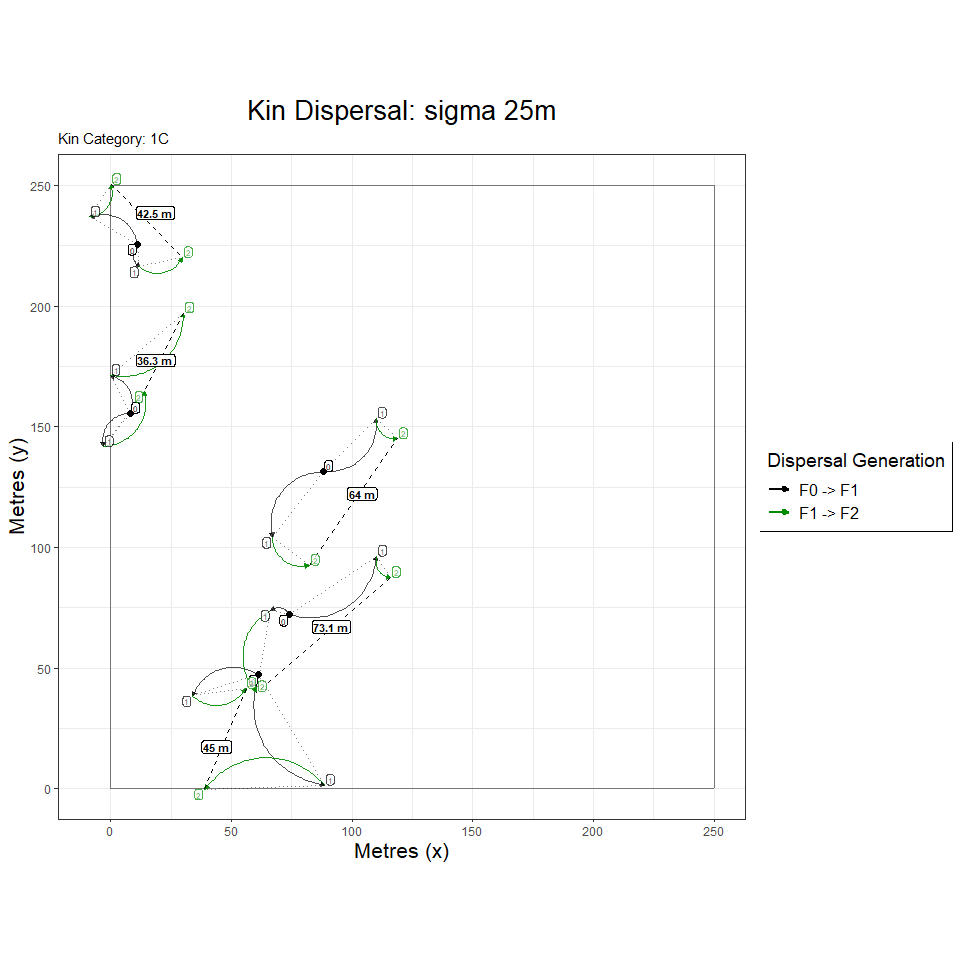
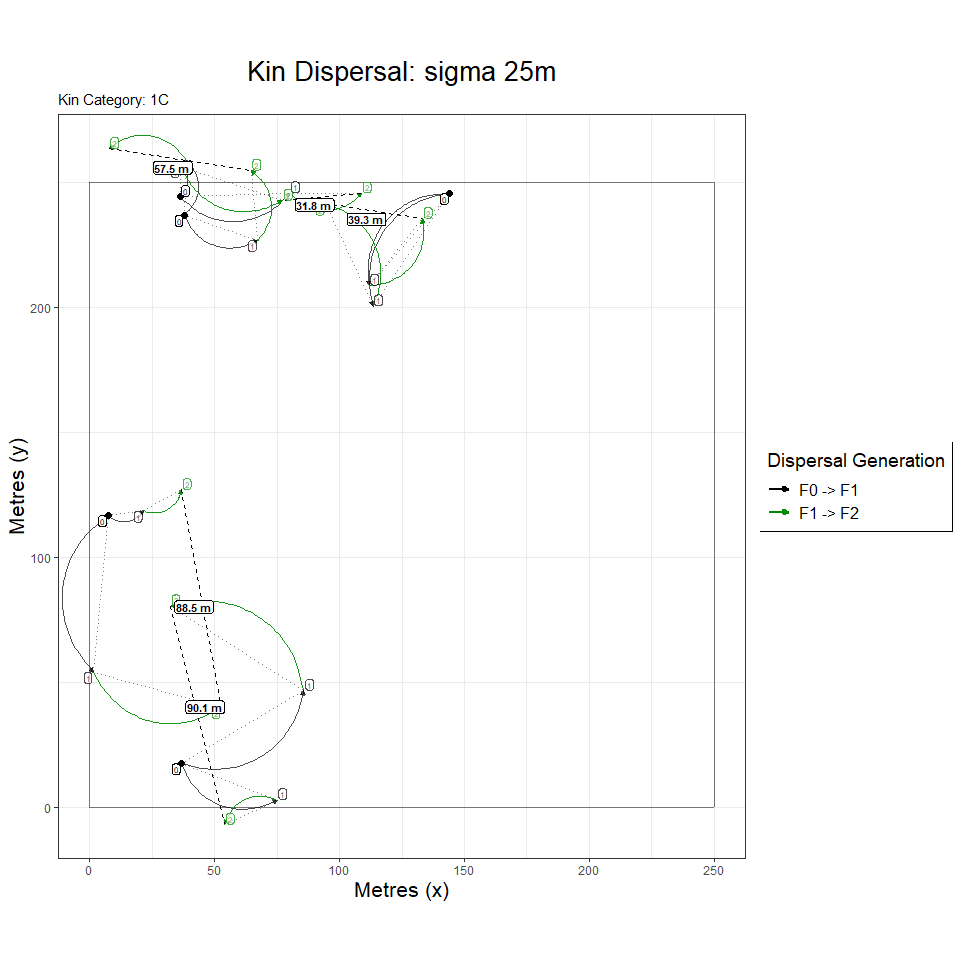
format tweaks

diff --git a/README.md b/README.md
@@ -296,13 +296,13 @@ simulate_kindist_simple(nsims = 5, sigma = 100, method = "Gaussian", kinship = "
 #> 
 #> tab
 #> # A tibble: 5 x 8
-#>   id1   id2   kinship distance    x1     y1    x2    y2
-#>   <chr> <chr> <chr>      <dbl> <dbl>  <dbl> <dbl> <dbl>
-#> 1 1a    1b    PO          40.7 59.7   9.37   31.3  38.6
-#> 2 2a    2b    PO         227.  34.6   0.493 210.  144. 
-#> 3 3a    3b    PO          90.5  7.66 25.7   -26.5 110. 
-#> 4 4a    4b    PO          98.3 20.8  17.1   106.  -31.7
-#> 5 5a    5b    PO          22.6 40.5  42.5    47.3  21.0
+#>   id1   id2   kinship distance    x1    y1     x2    y2
+#>   <chr> <chr> <chr>      <dbl> <dbl> <dbl>  <dbl> <dbl>
+#> 1 1a    1b    PO          86.1  1.09  2.07  85.1   21.1
+#> 2 2a    2b    PO          61.9 64.1  99.9    3.14 111. 
+#> 3 3a    3b    PO          96.0 83.4  68.2  175.    97.6
+#> 4 4a    4b    PO         134.  46.9  25.5  172.   -23.3
+#> 5 5a    5b    PO          90.7 14.8  58.5  101.    87.5
 #> -----------------------------------
 ```
 
@@ -348,13 +348,13 @@ simulate_kindist_composite(nsims = 5, initsigma = 50, breedsigma = 30, gravsigma
 #> 
 #> tab
 #> # A tibble: 5 x 8
-#>   id1   id2   kinship distance    x1     y1     x2     y2
-#>   <chr> <chr> <chr>      <dbl> <dbl>  <dbl>  <dbl>  <dbl>
-#> 1 1a    1b    H1C         185.  45.8   25.5   65.6  209. 
-#> 2 2a    2b    H1C         408. -21.5  104.   302.  -144. 
-#> 3 3a    3b    H1C         143.  30.3 -180.    92.3  -51.5
-#> 4 4a    4b    H1C         117. -51.2   39.6 -113.   -60.2
-#> 5 5a    5b    H1C         281. 154.   -77.2  181.   203. 
+#>   id1   id2   kinship distance     x1     y1    x2     y2
+#>   <chr> <chr> <chr>      <dbl>  <dbl>  <dbl> <dbl>  <dbl>
+#> 1 1a    1b    H1C         206.  105.   165.  -99.6  188. 
+#> 2 2a    2b    H1C         452.  -41.9 -106.  229.   255. 
+#> 3 3a    3b    H1C         477. -110.   136.  152.  -262. 
+#> 4 4a    4b    H1C         121.   36.8  218.  -57.2  141. 
+#> 5 5a    5b    H1C         179. -132.    82.8  46.9   76.9
 #> -----------------------------------
 ```
 
@@ -403,13 +403,13 @@ simulate_kindist_custom(nsims = 5, model = dmodel, kinship = "PO")
 #> 
 #> tab
 #> # A tibble: 5 x 8
-#>   id1   id2   kinship distance    x1    y1     x2    y2
-#>   <chr> <chr> <chr>      <dbl> <dbl> <dbl>  <dbl> <dbl>
-#> 1 1a    1b    PO          41.4 34.9   47.4  -5.63  56.3
-#> 2 2a    2b    PO          22.0  9.97  99.3  30.8  106. 
-#> 3 3a    3b    PO         166.  68.0   55.4 232.    82.0
-#> 4 4a    4b    PO          37.3 92.3   18.8  88.4  -18.2
-#> 5 5a    5b    PO          61.5 19.5   82.0 -26.9  122. 
+#>   id1   id2   kinship distance    x1    y1    x2     y2
+#>   <chr> <chr> <chr>      <dbl> <dbl> <dbl> <dbl>  <dbl>
+#> 1 1a    1b    PO          47.9  74.9  88.1  31.5 108.  
+#> 2 2a    2b    PO         107.   45.9  39.6 146.    2.18
+#> 3 3a    3b    PO         164.   88.1  40.8 223.  134.  
+#> 4 4a    4b    PO         218.   81.7  50.2  66.5 268.  
+#> 5 5a    5b    PO          64.1  89.0  46.8 150.   65.3 
 #> -----------------------------------
 ```
 
@@ -451,18 +451,18 @@ sample_kindist(compsim, upper = 1000, lower = 200, spacing = 50, n = 25)
 #> 
 #> tab
 #> # A tibble: 25 x 8
-#>    id1    id2    kinship distance      x1     y1     x2     y2
-#>    <chr>  <chr>  <chr>      <dbl>   <dbl>  <dbl>  <dbl>  <dbl>
-#>  1 63692a 63692b H2C          475 -215.    236.   218.   387. 
-#>  2 33721a 33721b H2C          725  333.   -444.   315.   281. 
-#>  3 48528a 48528b H2C          425  510.    -56.2  166.   151. 
-#>  4 98372a 98372b H2C          375  -48.0  -226.   118.    94.4
-#>  5 49961a 49961b H2C          225  -48.4   287.  -257.   210. 
-#>  6 4577a  4577b  H2C          375 -164.   -229.    57.2   68.1
-#>  7 46586a 46586b H2C          525  -40.8  -158.   120.   355. 
-#>  8 66461a 66461b H2C          275  229.    256.   435.    44.6
-#>  9 28980a 28980b H2C          375  -22.3   216.   -39.8 -160. 
-#> 10 69366a 69366b H2C          375    2.15  308.   377.   267. 
+#>    id1    id2    kinship distance      x1      y1      x2       y2
+#>    <chr>  <chr>  <chr>      <dbl>   <dbl>   <dbl>   <dbl>    <dbl>
+#>  1 5988a  5988b  H2C          375  167.     93.4  -178.    211.   
+#>  2 21680a 21680b H2C          375   69.7   345.     98.8   -25.9  
+#>  3 90481a 90481b H2C          575 -275.    -10.2   177.    338.   
+#>  4 98513a 98513b H2C          375    6.31  379.     84.4    -0.246
+#>  5 57969a 57969b H2C          375 -332.      1.47  -21.1  -209.   
+#>  6 69384a 69384b H2C          325 -104.   -133.    191.    -41.3  
+#>  7 90055a 90055b H2C          525   53.3   117.   -368.    413.   
+#>  8 69670a 69670b H2C          275  -71.8   549.    210.    488.   
+#>  9 56281a 56281b H2C          525  545.   -128.      5.64  -69.8  
+#> 10 29818a 29818b H2C          325 -125.    -12.3  -180.    316.   
 #> # ... with 15 more rows
 #> -----------------------------------
 ```
@@ -558,13 +558,13 @@ of three draws from the PO distribution, and thus would take
 ``` r
 paroff <- simulate_kindist_simple(nsims = 1000, sigma = 75, kinship = "PO")
 axials(paroff)
-#> [1] 74.97167
+#> [1] 77.42262
 ```
 
 ``` r
 fullsibs <- simulate_kindist_composite(nsims = 10000, ovisigma = 25, kinship = "FS")
 axials(fullsibs, composite = 2)
-#> [1] 24.95087
+#> [1] 25.05323
 ```
 
 Various auxillary functions exist to further manipulate axial distances
@@ -647,8 +647,8 @@ fullcous <- simulate_kindist_composite(nsims = 75, initsigma = init, breedsigma 
 # calculate PO axial sigma C.I. 
 
 axpermute_standard(fullcous, fullsibs)
-#>     2.5%     mean    97.5% 
-#> 76.86744 86.63217 97.08255
+#>      2.5%      mean     97.5% 
+#>  86.03582  97.50953 109.82907
 ```
 
 As we can see, the C.I. neatly brackets the actual axial value, though
@@ -678,18 +678,18 @@ cousins
 #> 
 #> tab
 #> # A tibble: 150 x 9
-#>    id1   id2   kinship distance     x1     y1      x2     y2 lifestage
-#>    <chr> <chr> <chr>      <dbl>  <dbl>  <dbl>   <dbl>  <dbl> <chr>    
-#>  1 1a    1b    UN         240.   242.   -44.9  113.    157.  immature 
-#>  2 2a    2b    UN         127.   167.    52.9  124.    172.  immature 
-#>  3 3a    3b    UN         141.    10.6   77.5   39.2   215.  immature 
-#>  4 4a    4b    UN         153.    17.3 -103.   166.    -65.6 immature 
-#>  5 5a    5b    UN         114.    43.1   41.8  -64.3    80.2 immature 
-#>  6 6a    6b    UN         307.   182.   203.   -77.2    37.3 immature 
-#>  7 7a    7b    UN         198.   105.    29.3    9.40 -144.  immature 
-#>  8 8a    8b    UN         161.    80.5  -87.9   69.6    73.1 immature 
-#>  9 9a    9b    UN         233.  -102.   118.  -309.    226.  immature 
-#> 10 10a   10b   UN          81.6   69.0  173.   -12.2   182.  immature 
+#>    id1   id2   kinship distance      x1     y1      x2      y2 lifestage
+#>    <chr> <chr> <chr>      <dbl>   <dbl>  <dbl>   <dbl>   <dbl> <chr>    
+#>  1 1a    1b    UN         267.   129.    64.2    -5.28 -167.   immature 
+#>  2 2a    2b    UN         245.  -199.    -7.09   45.9    -2.45 immature 
+#>  3 3a    3b    UN         124.     6.13 113.    123.     71.6  immature 
+#>  4 4a    4b    UN          78.0    2.12  46.1   -14.9   -30.0  immature 
+#>  5 5a    5b    UN         155.    65.1  206.    158.     82.0  immature 
+#>  6 6a    6b    UN          93.6  -96.5   23.3  -150.    100.   immature 
+#>  7 7a    7b    UN         209.   -63.0  227.    -29.4    20.4  immature 
+#>  8 8a    8b    UN         119.    87.9  -86.0   198.   -132.   immature 
+#>  9 9a    9b    UN         465.   361.   166.    -84.0    32.2  immature 
+#> 10 10a   10b   UN          76.8   84.2  -67.7    63.3     6.20 immature 
 #> # ... with 140 more rows
 #> -------------------------------
 ```
@@ -704,8 +704,8 @@ missing category data:
 # bcomp allows supply of distribution to composite with bvect (this is done to match 
 # the cousin mixture in phase)
 axpermute_standard(avect = cousins, acat = "1C", amix = TRUE, amixcat = "H1C", bvect = fullsibs, bcomp = TRUE, bcompvect = halfsibs)
-#>      2.5%      mean     97.5% 
-#>  78.98689  90.72218 100.45978
+#>     2.5%     mean    97.5% 
+#> 75.82622 86.19653 96.91583
 ```
 
 This estimate is a lot more convoluted, and not as ‘spot on’- but the
@@ -877,18 +877,18 @@ ant_po
 #> 
 #> tab
 #> # A tibble: 10,000 x 8
-#>    id1   id2   kinship distance    x1    y1      x2    y2
-#>    <chr> <chr> <chr>      <dbl> <dbl> <dbl>   <dbl> <dbl>
-#>  1 1a    1b    PO          14.1 79.4  32.5    66.0   28.4
-#>  2 2a    2b    PO         242.   3.88 43.9   222.   149. 
-#>  3 3a    3b    PO          99.9  6.63 78.8   104.    99.2
-#>  4 4a    4b    PO         208.   7.28 79.7  -159.   205. 
-#>  5 5a    5b    PO         206.  97.1  51.5  -108.    65.0
-#>  6 6a    6b    PO         251.  34.7  57.7  -216.    78.5
-#>  7 7a    7b    PO          97.7 31.9  34.8    -6.34 -55.1
-#>  8 8a    8b    PO         125.  45.4  50.9   -49.2  133. 
-#>  9 9a    9b    PO          75.6 84.1   7.83  149.   -31.2
-#> 10 10a   10b   PO          50.1 38.9  79.5    32.2   29.9
+#>    id1   id2   kinship distance    x1    y1     x2     y2
+#>    <chr> <chr> <chr>      <dbl> <dbl> <dbl>  <dbl>  <dbl>
+#>  1 1a    1b    PO        130.   96.8  90.7    67.2 217.  
+#>  2 2a    2b    PO        123.    9.48 52.4   131.   73.0 
+#>  3 3a    3b    PO         76.4  99.9  98.1    24.1 108.  
+#>  4 4a    4b    PO        106.   88.9  63.2   -13.3  92.1 
+#>  5 5a    5b    PO        137.    8.41 14.4    38.6 148.  
+#>  6 6a    6b    PO         47.9  86.2  33.4   134.   27.6 
+#>  7 7a    7b    PO        196.   89.1  33.1  -107.   34.0 
+#>  8 8a    8b    PO        264.   74.4  83.3   158.  334.  
+#>  9 9a    9b    PO         62.3  41.6  79.8    64.0 138.  
+#> 10 10a   10b   PO          5.07 45.5   3.84   42.0   7.45
 #> # ... with 9,990 more rows
 #> -----------------------------------
 ```
@@ -896,7 +896,7 @@ ant_po
 Now we’ll use the `axials()` function to characterise our ‘default’
 dispersal for the model:
 
-`axials(ant_po)`: 116.8669059
+`axials(ant_po)`: 118.1711765
 
 The value is around 117 the ‘expected’ value of PO we should get back
 from more complex estimation processes.
@@ -911,7 +911,7 @@ ant_fs <- simulate_kindist_custom(nsims = 10000, model = antechinus_model, kinsh
 ant_1c <- simulate_kindist_custom(nsims = 10000, model = antechinus_model, kinship = "1C")
 
 axials_standard(ant_1c, ant_fs) # larger dispersal category goes first. 
-#> [1] 117.9142
+#> [1] 117.6218
 ```
 
 The FS/1C strategy has been validated theoretically - but an important
@@ -1073,18 +1073,18 @@ ant_1c_juv
 #> 
 #> tab
 #> # A tibble: 100,000 x 8
-#>    id1   id2   kinship distance      x1       y1      x2        y2
-#>    <chr> <chr> <chr>      <dbl>   <dbl>    <dbl>   <dbl>     <dbl>
-#>  1 1a    1b    1C         364.   259.   -146.     -91.6   -45.8   
-#>  2 2a    2b    1C         164.   -71.3    52.1     51.8   160.    
-#>  3 3a    3b    1C         108.    -3.83   48.2     79.8   -20.4   
-#>  4 4a    4b    1C         264.   107.     49.5    366.      0.0607
-#>  5 5a    5b    1C          68.7  115.      0.928   61.5   -42.3   
-#>  6 6a    6b    1C         425.    68.8   -15.2    278.    355.    
-#>  7 7a    7b    1C         265.   173.     75.6    -66.4   190.    
-#>  8 8a    8b    1C         253.  -189.     48.7     -5.80 -126.    
-#>  9 9a    9b    1C          88.4   78.1    66.2      4.56   17.1   
-#> 10 10a   10b   1C         600.   -58.2   -20.9   -132.    574.    
+#>    id1   id2   kinship distance     x1     y1     x2     y2
+#>    <chr> <chr> <chr>      <dbl>  <dbl>  <dbl>  <dbl>  <dbl>
+#>  1 1a    1b    1C         221.   25.1   324.    41.3  103. 
+#>  2 2a    2b    1C         162.  -66.5  -157.  -139.   -11.3
+#>  3 3a    3b    1C         105.   -5.75   93.8   65.2   16.0
+#>  4 4a    4b    1C         182.  192.   -127.    51.6  -10.7
+#>  5 5a    5b    1C         289.  139.   -152.    11.1  107. 
+#>  6 6a    6b    1C         483.  -81.2   252.   151.  -172. 
+#>  7 7a    7b    1C         365.  229.     68.6 -121.   171. 
+#>  8 8a    8b    1C         128.  -95.9   -43.1  -19.2   59.1
+#>  9 9a    9b    1C          86.7 134.     21.3   78.3   88.1
+#> 10 10a   10b   1C          30.8  71.9   130.    41.2  133. 
 #> # ... with 99,990 more rows
 #> -----------------------------------
 ```
@@ -1108,18 +1108,18 @@ ant_fs_juv
 #> 
 #> tab
 #> # A tibble: 100,000 x 8
-#>    id1   id2   kinship distance    x1    y1    x2    y2
-#>    <chr> <chr> <chr>      <dbl> <dbl> <dbl> <dbl> <dbl>
-#>  1 1a    1b    FS             0 11.7  27.8  11.7  27.8 
-#>  2 2a    2b    FS             0  3.65  7.11  3.65  7.11
-#>  3 3a    3b    FS             0 42.6  16.6  42.6  16.6 
-#>  4 4a    4b    FS             0 22.9   6.12 22.9   6.12
-#>  5 5a    5b    FS             0 38.0  87.4  38.0  87.4 
-#>  6 6a    6b    FS             0 16.3   4.08 16.3   4.08
-#>  7 7a    7b    FS             0 82.6  34.7  82.6  34.7 
-#>  8 8a    8b    FS             0 31.4  15.2  31.4  15.2 
-#>  9 9a    9b    FS             0 15.2   5.87 15.2   5.87
-#> 10 10a   10b   FS             0 85.1  22.0  85.1  22.0 
+#>    id1   id2   kinship distance      x1    y1      x2    y2
+#>    <chr> <chr> <chr>      <dbl>   <dbl> <dbl>   <dbl> <dbl>
+#>  1 1a    1b    FS             0 46.3    90.4  46.3    90.4 
+#>  2 2a    2b    FS             0  3.40   66.7   3.40   66.7 
+#>  3 3a    3b    FS             0 11.3    21.6  11.3    21.6 
+#>  4 4a    4b    FS             0 19.3    99.3  19.3    99.3 
+#>  5 5a    5b    FS             0 83.7    77.2  83.7    77.2 
+#>  6 6a    6b    FS             0 74.8    35.1  74.8    35.1 
+#>  7 7a    7b    FS             0 81.3    30.9  81.3    30.9 
+#>  8 8a    8b    FS             0  0.0803 71.6   0.0803 71.6 
+#>  9 9a    9b    FS             0 33.6    96.0  33.6    96.0 
+#> 10 10a   10b   FS             0 36.5     5.94 36.5     5.94
 #> # ... with 99,990 more rows
 #> -----------------------------------
 ```
@@ -1136,7 +1136,7 @@ they have not dispersed at all, so will not confound the estimate)
 ``` r
 axpermute_standard(ant_1c_juv, ant_fs_juv, nsamp = 100, override = TRUE)
 #>     2.5%     mean    97.5% 
-#> 101.1379 117.2598 133.9107
+#> 101.9053 117.1050 134.8936
 ```
 
 This is excellent so far. Mean dispersal is still around 117, so
@@ -1162,7 +1162,7 @@ ant_1c_juv %>% sample_kindist(dims = 100, n = 1000) %>% axpermute_standard(ant_f
 #> Down-sampling to 1000 kin pairs
 #> 1000 kin pairs remaining.
 #>     2.5%     mean    97.5% 
-#> 25.58957 27.95790 30.18684
+#> 25.17507 27.51873 29.71393
 ```
 
 A 100x100 metre sampling area is woefully inadequate (estimating the
@@ -1175,7 +1175,7 @@ ant_1c_juv %>% sample_kindist(dims = 1000, n = 1000) %>% axpermute_standard(ant_
 #> Down-sampling to 1000 kin pairs
 #> 1000 kin pairs remaining.
 #>      2.5%      mean     97.5% 
-#>  91.05961 105.25217 121.05975
+#>  85.05691  97.03670 109.37340
 ```
 
 We are doing better here: with an average of \~100m. But we’re still 15%
@@ -1188,19 +1188,19 @@ ant_1c_juv %>% sample_kindist(dims = 2000, n = 1000) %>% axpermute_standard(ant_
 #> Down-sampling to 1000 kin pairs
 #> 1000 kin pairs remaining.
 #>      2.5%      mean     97.5% 
-#>  99.67978 113.46032 127.73920
+#>  95.88676 112.26431 131.12940
 ```
 
 This estimate is acceptable, with a mean only a few metres short, and
 the true value well within C.I.s. Accordingly, we make the decision to
 sample within a grid of at least 2km by 2 km.
 
-### 4.4.7 Run the study!
+### 4.4.8 Run the study!
 
 Now we are as prepared as possible to perform sampling, genotype
 individuals, etc.
 
-### 4.4.8 Load data and generate in-field dispersal estimates
+### 4.4.9 Load data and generate in-field dispersal estimates
 
 Follow the instructions given in 4.2 and 4.3 to load sample data into
 the program and supply estimates. The `axials_standard` and
@@ -1213,7 +1213,7 @@ effectively just decompose the 1C into two PO increments - works in this
 case as at the pouch phase we have synced FS dispersal to PO dispersal
 (as all FS offspring coincide with maternal parent)).
 
-### 4.4.9 Cross-check field estimates for bias and calibrate
+### 4.4.10 Cross-check field estimates for bias and calibrate
 
 Once you have generated in-field estimates of dispersal, it is always
 good practice to substitute these estimate back into the original
@@ -1253,7 +1253,7 @@ Spp.(marsupialia: Dasyuridae).” Journal Article. *Animal Behaviour* 33
 Fisher, D. O. 2005. “Population Density and Presence of the Mother Are
 Related to Natal Dispersal in Male and Female Antechinus Stuartii.”
 Journal Article. *Australian Journal of Zoology* 53 (2): 103–10.
-https://doi.org/<https://doi.org/10.1071/ZO04068>.
+<https://doi.org/10.1071/ZO04068>.
 
 </div>
 
